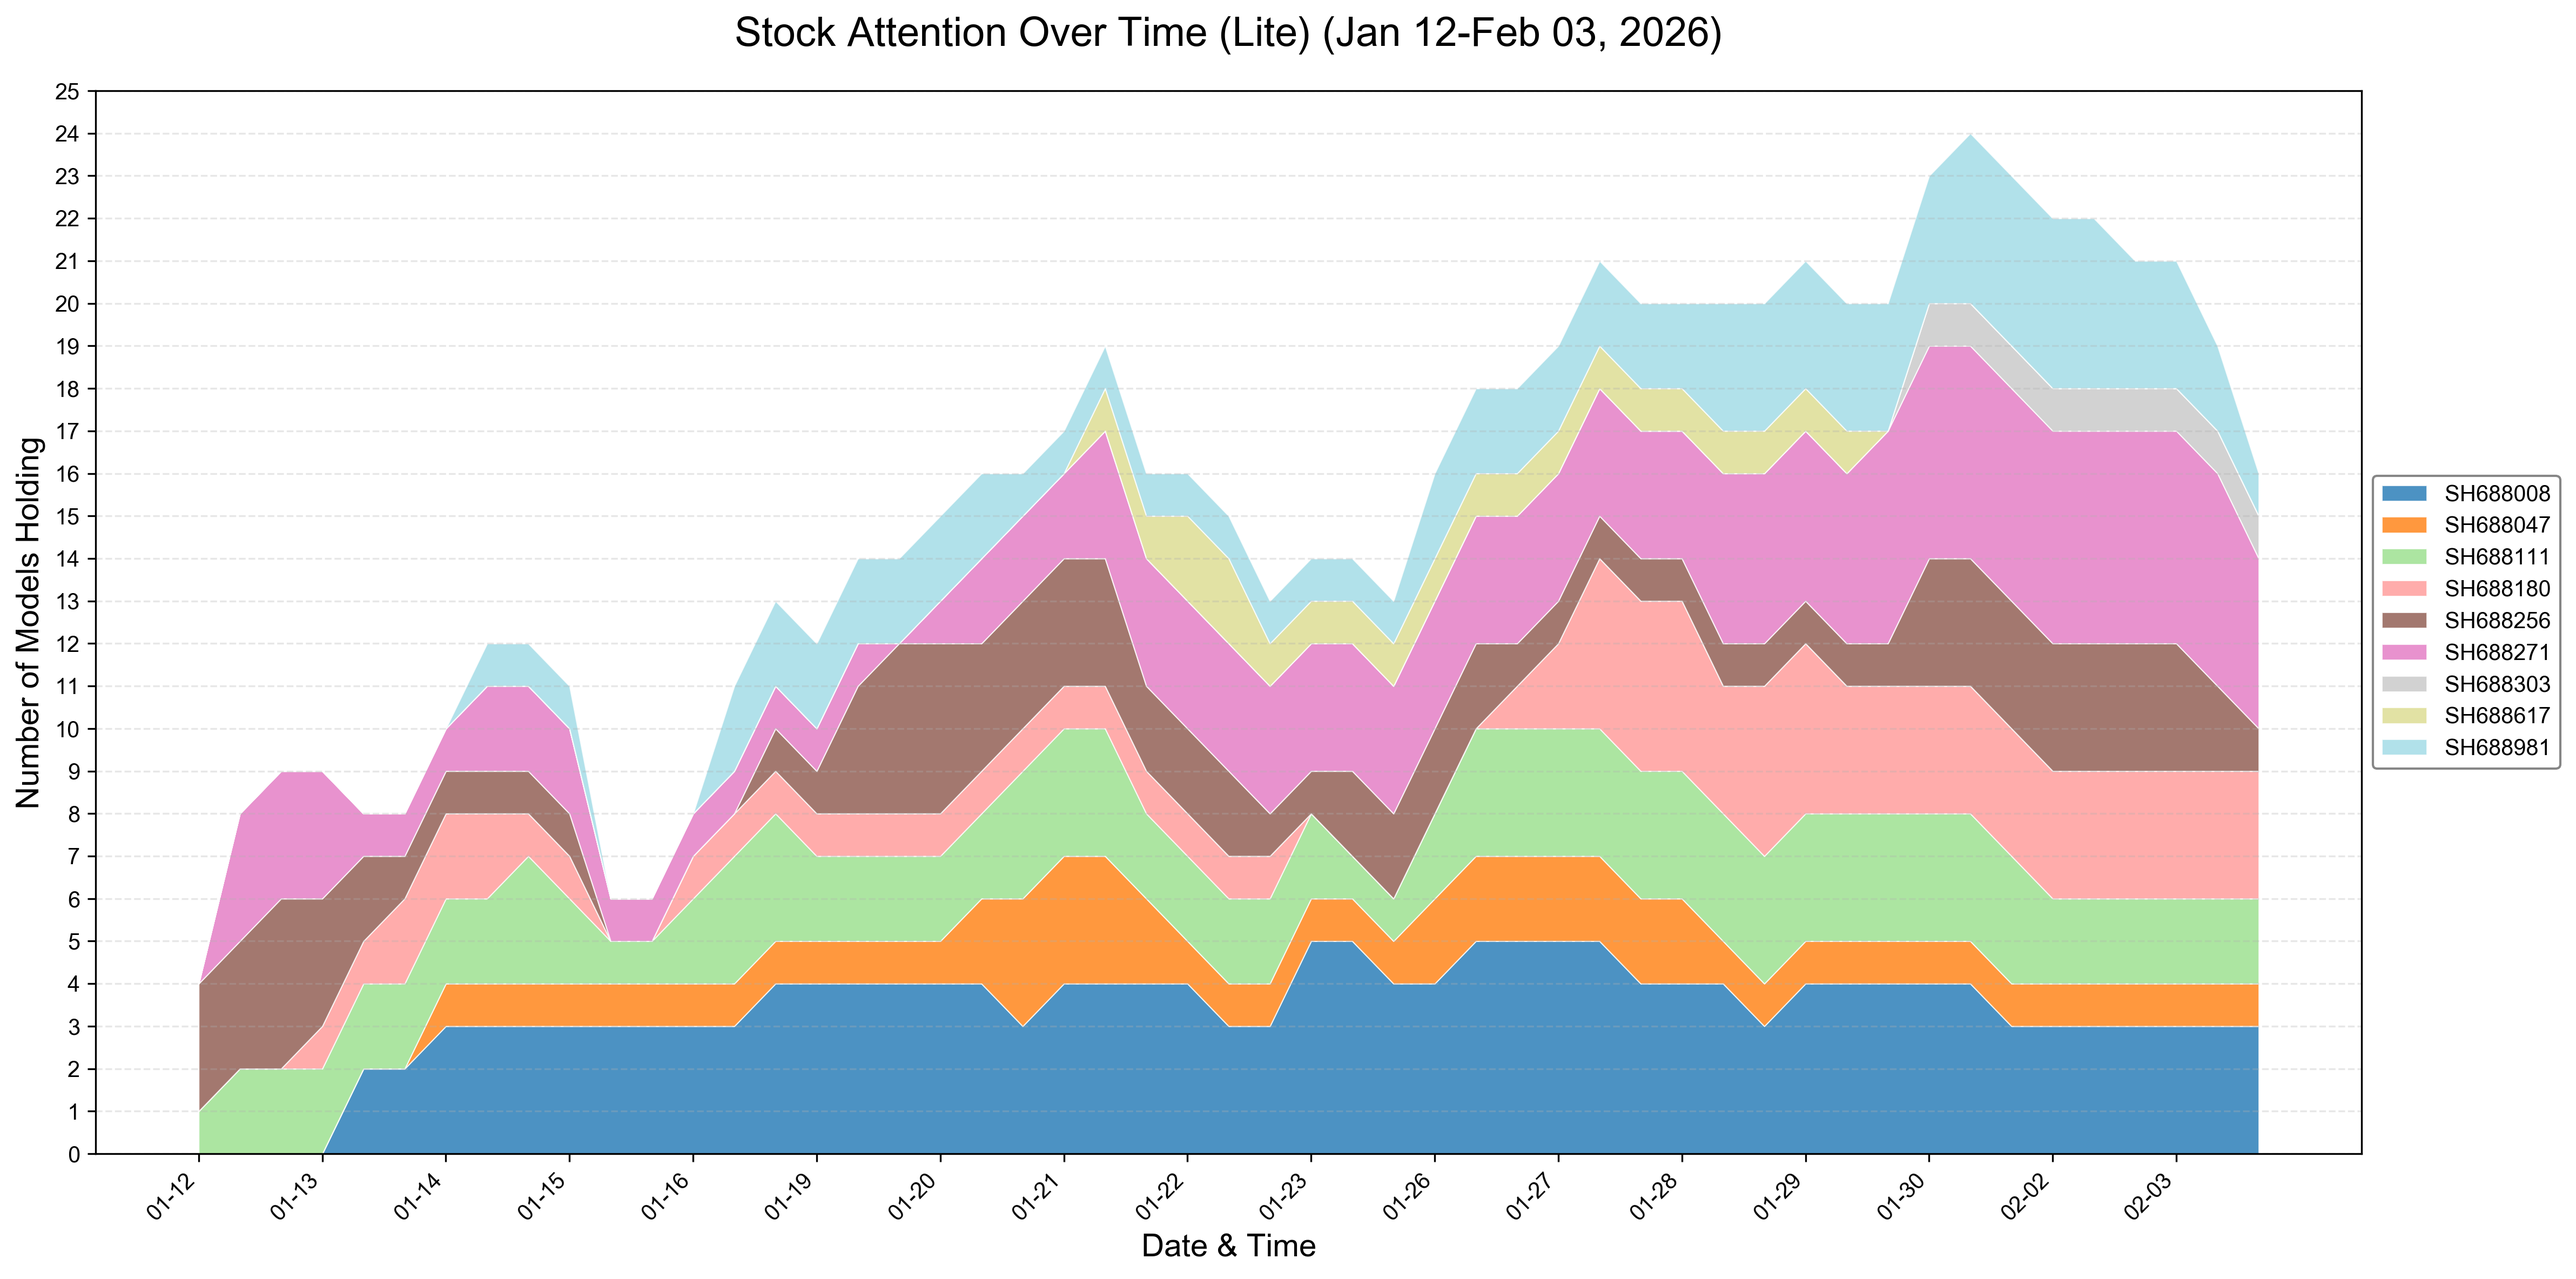
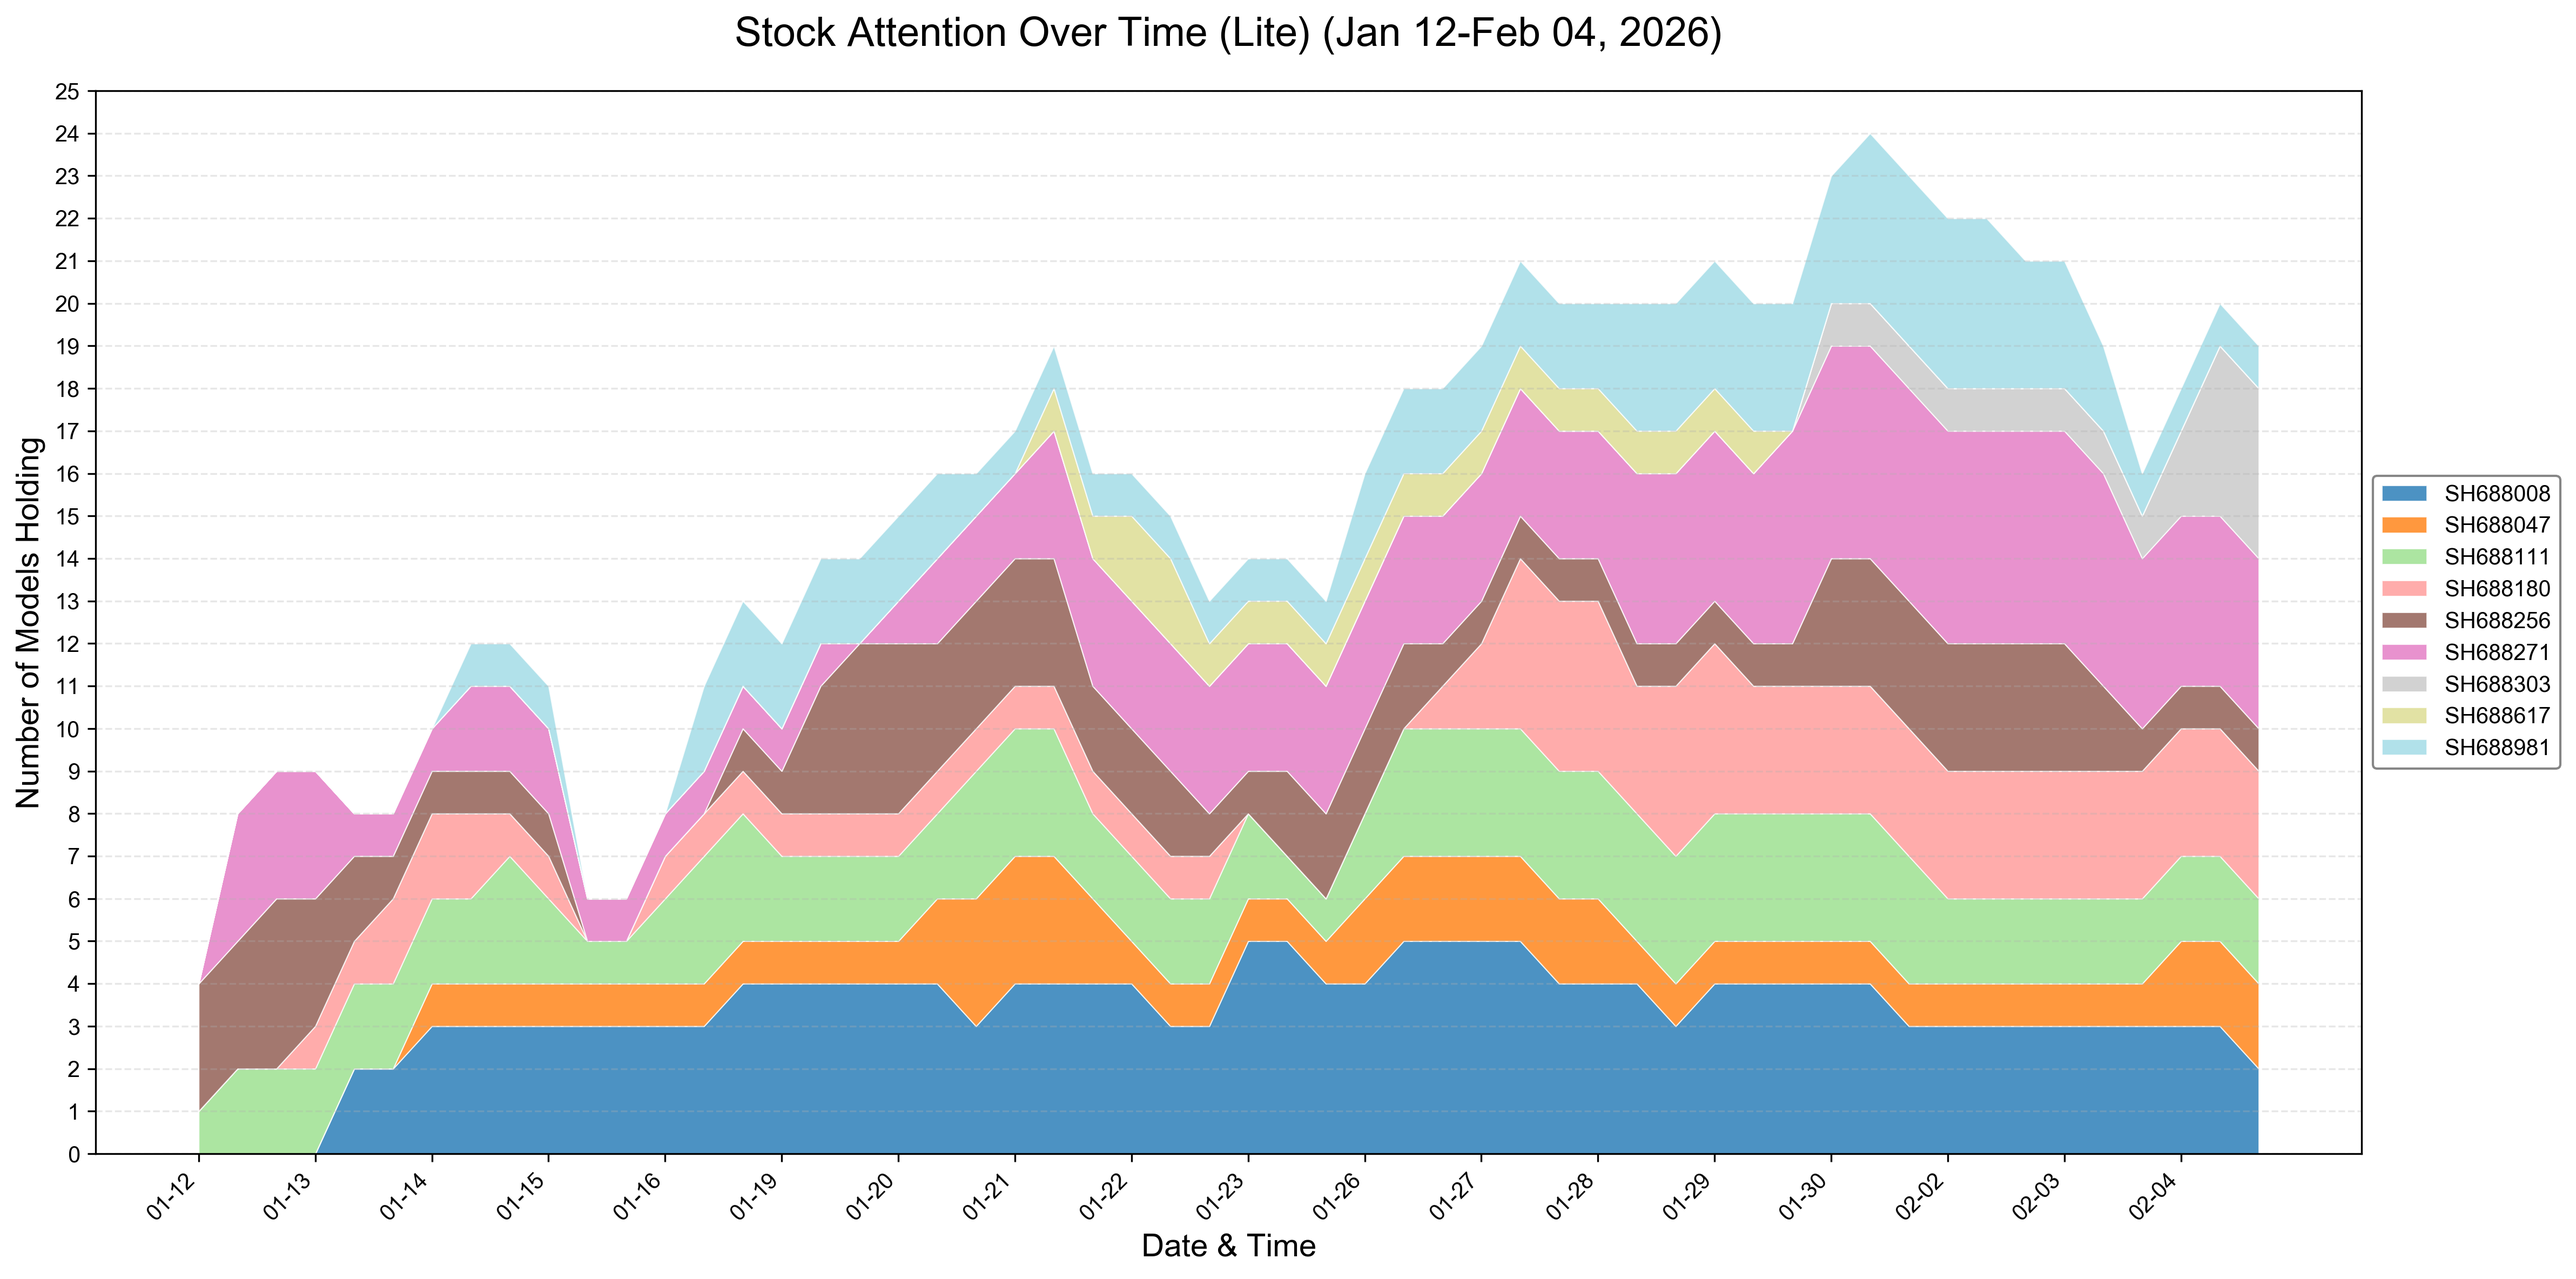
2.4

diff --git a/experiments/visualizations/performance_summary.md b/experiments/visualizations/performance_summary.md
@@ -2,8 +2,8 @@
 
 | Model | Latest Return | Max Return | Min Return | Volatility |
 |-------|---------------|------------|------------|------------|
-| Claude Haiku 4.5 | -6.91% | 0.23% | -6.91% | 1.39% |
-| DeepSeek Chat | -1.58% | 0.12% | -2.35% | 0.72% |
-| Gemini 2.5 Flash | -3.11% | 0.99% | -6.45% | 1.94% |
-| GPT-5.1 | 8.75% | 8.76% | -0.02% | 4.34% |
-| Qwen3-235b | -7.15% | -0.01% | -7.15% | 1.95% |
+| Claude Haiku 4.5 | -6.31% | 0.23% | -6.91% | 1.59% |
+| DeepSeek Chat | -1.58% | 0.12% | -2.35% | 0.71% |
+| Gemini 2.5 Flash | -3.12% | 0.99% | -6.45% | 1.91% |
+| GPT-5.1 | 8.75% | 8.76% | -0.02% | 4.37% |
+| Qwen3-235b | -7.15% | -0.01% | -7.15% | 2.13% |

diff --git a/README.md b/README.md
@@ -22,9 +22,9 @@
 
 ## 📊 Performance Comparison Results
 
-**Updated: February 3, 2026**
+**Updated: February 4, 2026**
 
-This section showcases comprehensive performance comparisons across Lite and Pro model versions, including benchmark analyses and portfolio dynamics during the trading period (January 12-February 3, 2026).
+This section showcases comprehensive performance comparisons across Lite and Pro model versions, including benchmark analyses and portfolio dynamics during the trading period (January 12-February 4, 2026).
 
 ### Dual Model Version Strategy
 
